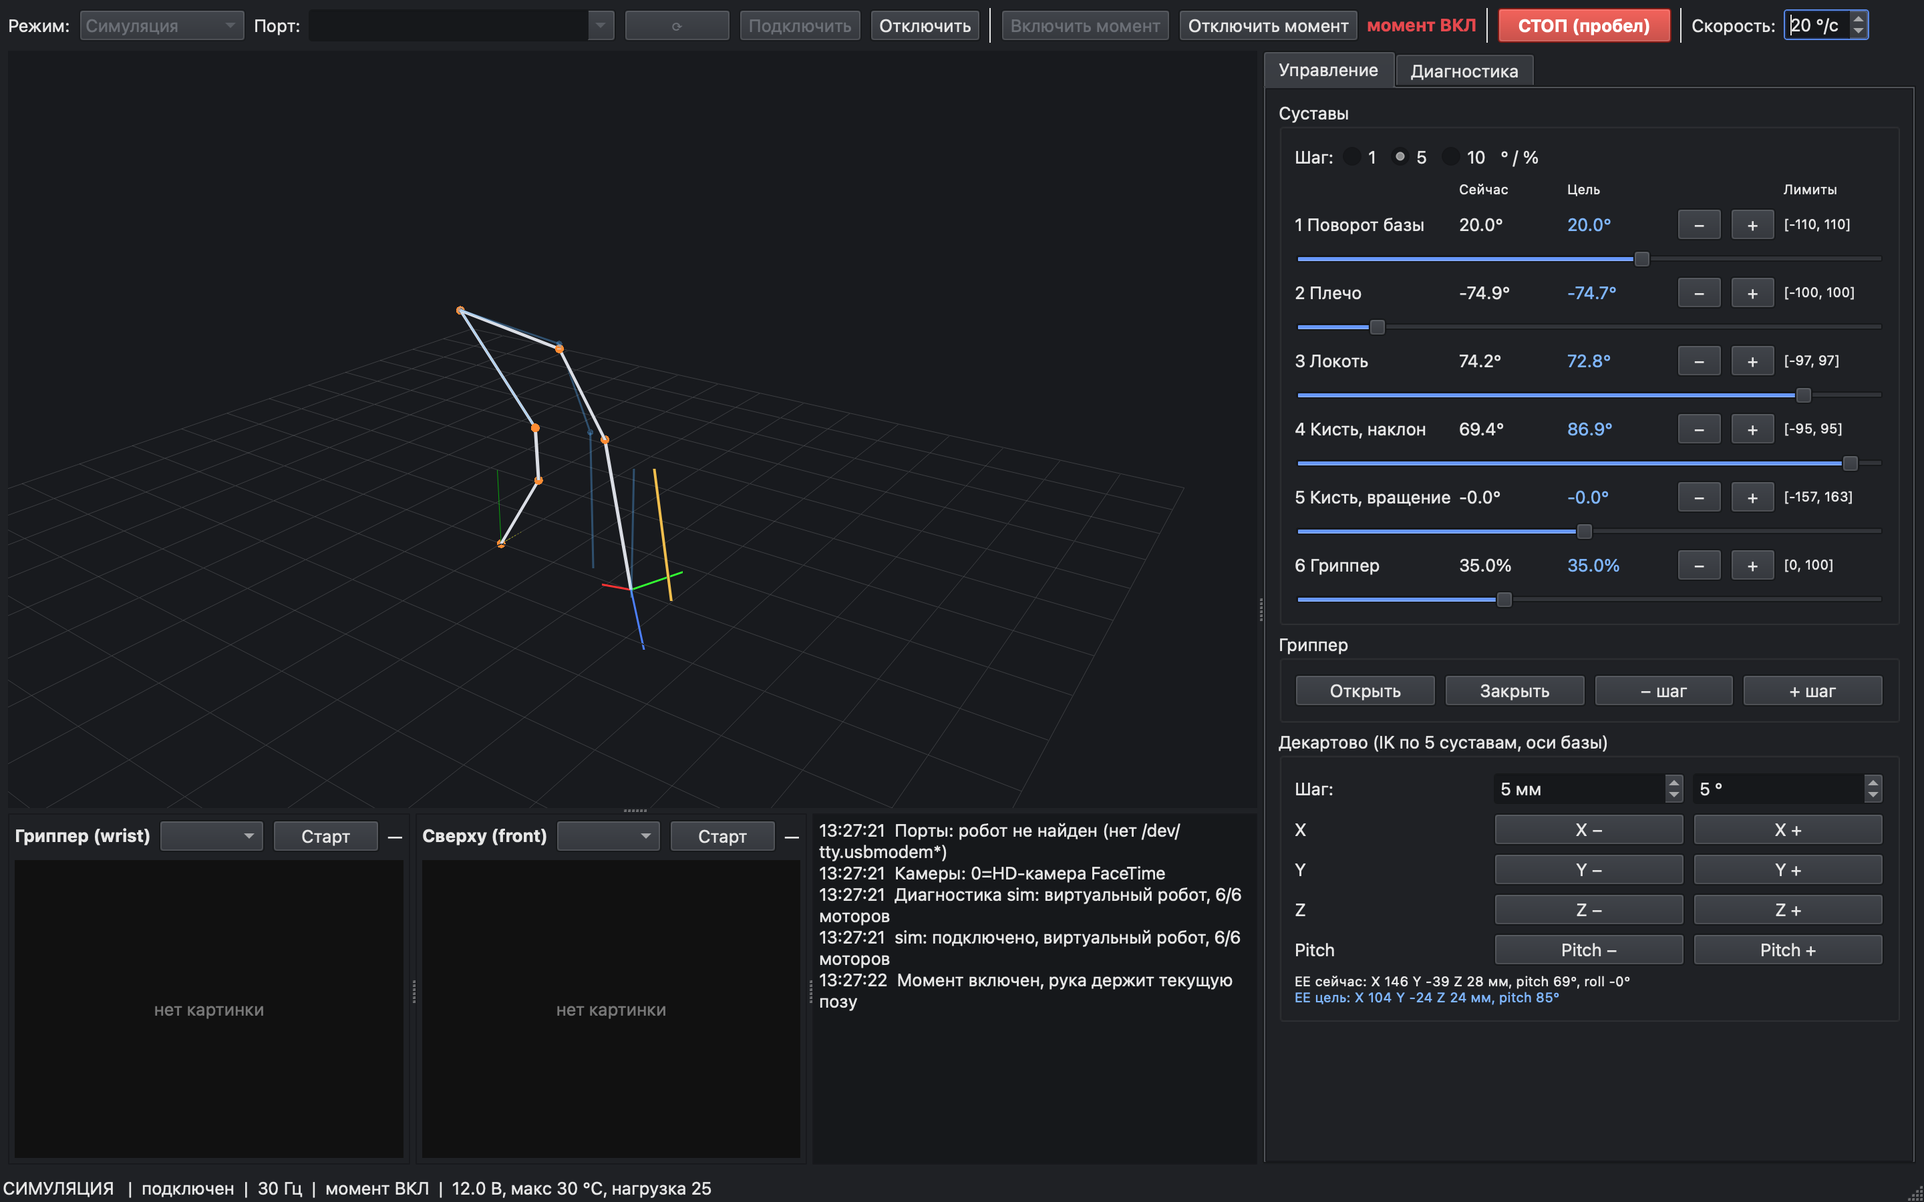
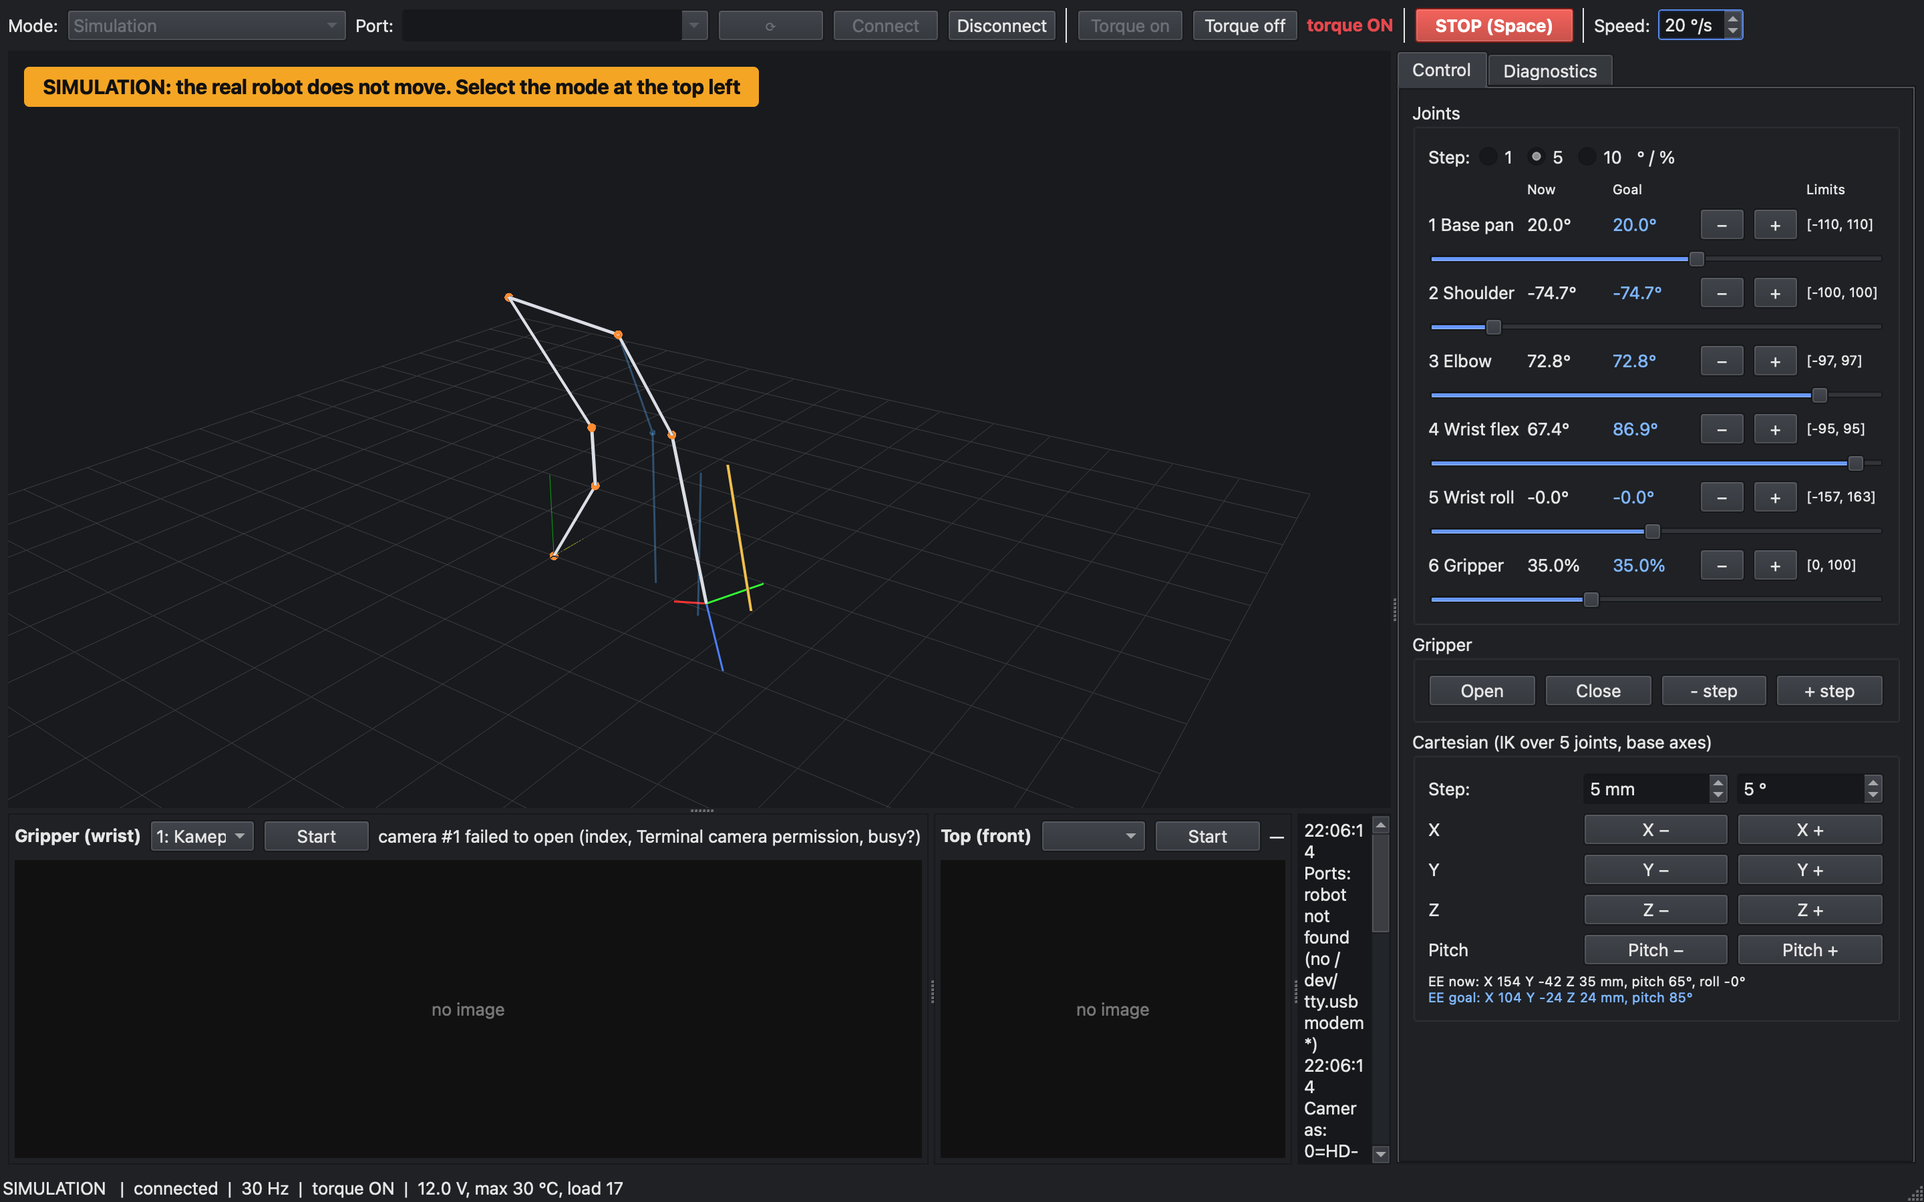
Add README, MIT license, NOTICE, CI workflow and English roadmap

diff --git a/README.md b/README.md
@@ -1,0 +1,160 @@
+# so101-control
+
+[![CI](https://github.com/Danykrane/so101-control/actions/workflows/ci.yml/badge.svg)](https://github.com/Danykrane/so101-control/actions/workflows/ci.yml)
+[![License: MIT](https://img.shields.io/badge/License-MIT-yellow.svg)](LICENSE)
+
+A safety-first control stack for the **SO-101** 6-DoF robot arm (Feetech STS3215 servos):
+a read-only-on-connect servo driver, URDF forward/inverse kinematics, a safety filter, a robot daemon
+with an HTTP API, an **MCP server that lets an LLM agent drive the real arm**, and a PyQt6 GUI with a 3D digital twin.
+
+It runs fully in simulation without hardware, and it has been used on a physical SO-101 follower arm.
+
+![GUI in simulation mode](docs/screenshot_sim.png)
+
+## Why
+
+Off-the-shelf scripts for hobby arms tend to write to the motors on startup, re-run calibration, or jump to
+a target as soon as torque is enabled. This project treats the arm as real hardware next to a person:
+connecting only reads, nothing moves until an explicit command, and every command from every client
+(GUI, CLI, LLM agent) passes through the same safety filter.
+
+## Architecture
+
+```mermaid
+flowchart LR
+    bus["Feetech servo bus<br/>6x STS3215, USB serial"] --> driver["driver.py<br/>30 Hz control loop,<br/>Sim / Feetech drivers"]
+    driver <--> safety["safety.py<br/>limits, step and speed limits,<br/>sag compensation"]
+    driver <--> kin["kinematics.py<br/>URDF FK / damped-LS IK"]
+    driver --> robotd["robotd.py<br/>HTTP API 127.0.0.1:8765<br/>+ cameras"]
+    kin --> robotd
+    robotd --> mcp["robot_mcp.py<br/>MCP server, 11 tools"]
+    mcp --> agent["LLM agent<br/>(e.g. Claude Code)"]
+    robotd --> cli["robotctl.py<br/>CLI"]
+    robotd --> gui["app.py (remote mode)<br/>PyQt6 GUI + 3D twin"]
+```
+
+One process (`robotd`) owns the serial port and the cameras. The GUI, the CLI and the agent are clients,
+so a human can watch the 3D twin and hit STOP while the agent is moving the arm.
+
+| Module | Responsibility |
+|---|---|
+| `driver.py` | `RobotState`, `SimDriver` (first-order servo model), `FeetechDriver` (LeRobot `SerialMotorsBus`); 30 Hz loop in a worker thread, command queue, watchdog, telemetry |
+| `safety.py` | Pure numpy safety filter: limit clipping, per-tick step limit, synchronous speed governor, lead limit, anti-sag I-loop |
+| `kinematics.py` | URDF parser, FK, 5-DoF IK (damped least squares with adaptive Levenberg-Marquardt damping), Cartesian path planner, motor-to-URDF joint map |
+| `robotd.py` | Robot daemon: HTTP JSON API, motion commands with "arrived / stalled / preempted" results, rest pose, camera snapshots |
+| `robot_mcp.py` | MCP server (FastMCP) exposing robotd to an LLM agent |
+| `robotctl.py` | Command-line client |
+| `remote.py` | `RemoteDriver`: the GUI as a robotd client with the same API as a local driver |
+| `app.py` | PyQt6 GUI: 3D skeleton with goal "ghost", joint and Cartesian jog, gripper, two cameras, motor diagnostics, log |
+| `cameras.py` | macOS camera enumeration and threaded OpenCV capture |
+| `ping_robot.py` | Read-only hardware check: ping 6 motors, read calibration and telemetry |
+
+Only `app.py` imports Qt; everything else is UI-agnostic and is meant to be ported to C++.
+
+## Features
+
+**Safety**
+- Connecting is read-only: ping, calibration from EEPROM, positions, torque, voltage, temperature.
+  LeRobot `calibrate()`, `configure()` and `write_calibration()` are never called, so PID gains, limits and
+  calibration in EEPROM stay untouched.
+- Torque is enabled only by an explicit command: `Goal_Position = Present_Position` (acknowledged by each motor),
+  then `Torque_Enable`. The arm freezes in place instead of jumping.
+- Goals are clipped to the intersection of URDF and calibration limits. A joint already outside its limit may only
+  move back inside, never snap to the boundary.
+- Synchronous speed governor: arm joints arrive together on a straight joint-space path, at most 2 deg per tick;
+  the commanded goal never leads the measured position by more than 10 deg.
+- Torque is re-read at about 3 Hz: if a servo drops torque (overheat, overload) control stops.
+  About 1 s without a link: the driver disconnects without touching torque.
+- Cartesian goals below a configurable table height are rejected; IK steps that need a joint jump over 15 deg
+  (near the straight-elbow singularity) are refused with a reason.
+
+**Kinematics and control**
+- FK/IK straight from the URDF, 5-DoF task space (x, y, z, pitch, roll); Cartesian moves are split into sub-steps
+  and IK is chained from the current pose to stay on the same solution branch.
+- Outer integral loop against gravity sag: the servo P controller falls 1-2 deg short under the arm weight
+  (up to 10 mm at the tool); a bounded offset (at most 3 deg) is added only for settled joints inside an error window.
+
+**Agent and tooling**
+- `robotd` reports why a motion ended: arrived, stalled against an obstacle, timed out, or preempted by another client
+  (for example a human pressing STOP in the GUI).
+- MCP tools: `robot_state`, `robot_torque`, `robot_move_joints`, `robot_move_cartesian`, `robot_move_to_pose`,
+  `robot_gripper`, `robot_go_rest`, `robot_stop`, `robot_camera`, `robot_set_speed`, `robot_log`.
+  The wrist camera snapshot is returned as an image, so the agent can look before the next step.
+- Joint signs and zeros were verified on hardware: shoulder, elbow and wrist against the resting pose,
+  base pan and wrist roll by the shift and rotation of the wrist-camera image.
+
+## Quick start (simulation, no hardware)
+
+```bash
+python -m venv .venv
+.venv/bin/pip install -r requirements.txt
+.venv/bin/python app.py --sim
+```
+
+Robot daemon in simulation, driven from the CLI:
+
+```bash
+.venv/bin/python robotd.py --sim --cameras ""
+.venv/bin/python robotctl.py torque on
+.venv/bin/python robotctl.py cart --dz 20
+.venv/bin/python robotctl.py state
+```
+
+## Real hardware
+
+Tested on macOS with an SO-101 follower arm, Python 3.12 and LeRobot 0.6.2 (its `SerialMotorsBus` on top of `rustypot`).
+
+1. Install LeRobot with serial motor support into the same environment
+   (see the [LeRobot installation guide](https://github.com/huggingface/lerobot)),
+   for example `pip install "lerobot[serial-motors]"`.
+2. Check the arm without moving it: `python ping_robot.py`.
+3. Start the daemon from Terminal (macOS grants camera access to the parent app): `./robotd.command`.
+4. Connect the GUI to it: `./run.command --robotd`, or use `robotctl.py`.
+
+Calibration is read from the servo EEPROM; the arm is expected to be calibrated once with LeRobot.
+Joint sign and zero offsets live in `config/joint_map.json`.
+
+### Connecting an LLM agent (MCP)
+
+Copy `.mcp.json.example` to `.mcp.json` in your agent's project, fix the path to `robot_mcp.py`
+and start `robotd` first. The MCP server only forwards requests to `robotd` and needs `uv` (or `pip install "mcp>=1.10,<2"`).
+
+## Tests
+
+```bash
+.venv/bin/python -m pytest
+```
+
+24 tests run without hardware and without LeRobot: FK/IK round trips, limit and singularity handling,
+the speed governor, sag compensation, the simulated driver, `robotd` command semantics, and a fake Feetech bus that
+asserts **connecting writes nothing** and **enabling torque writes the goal first**.
+CI runs `ruff` and `pytest` on every push.
+
+## Limitations
+
+- Python prototype: the 30 Hz loop runs in a Python thread, not a real-time controller.
+- The simulator has no gravity and no collisions; there is no self-collision check yet.
+- Camera enumeration and the `.command` launchers are macOS-specific; serial port auto-detection looks for
+  `/dev/tty.usbmodem*`-style names.
+- The HTTP API listens on localhost only and has no authentication.
+- Sag compensation is covered by tests in simulation but not yet validated on hardware.
+
+## Roadmap
+
+- **ROS 2**: a `ros2_control` hardware interface in C++ for the Feetech bus, with the same read-only connect and
+  torque-enable rules, plus MoveIt 2 integration.
+- **C++ / Qt 6 port**: kinematics and the safety filter in C++, a Qt 6 desktop app with a Qt Quick 3D digital twin and
+  a task pipeline editor.
+- MuJoCo digital twin with mirror (real to sim) and preview (sim to real after confirmation) modes.
+- Self-collision checks with sphere models; ZeroMQ or gRPC transport instead of HTTP polling.
+- LeRobot dataset recording from teleoperation and learned policies (ACT, SmolVLA) behind the same safety filter.
+
+See [docs/ROADMAP.md](docs/ROADMAP.md) for stages and acceptance criteria.
+
+## Credits and licenses
+
+- This project: [MIT](LICENSE).
+- [LeRobot](https://github.com/huggingface/lerobot) (Apache-2.0) by Hugging Face: used as a dependency for the
+  Feetech servo bus (`lerobot.motors.SerialMotorsBus`). LeRobot code is not included in this repository.
+- `urdf/so101_new_calib.urdf` comes from [TheRobotStudio/SO-ARM100](https://github.com/TheRobotStudio/SO-ARM100)
+  (Apache-2.0), unmodified. See [NOTICE](NOTICE).

diff --git a/docs/ROADMAP.md b/docs/ROADMAP.md
@@ -1,69 +1,48 @@
-# SO-101 Studio: план разработки
+# Roadmap
 
-Цель: десктоп-приложение на C++/Qt в стиле Traxium для управления SO-101 и запуска обученных
-действий. Основная задача: взять синий куб со стола и положить в руку.
+Goal: a desktop application (C++ / Qt 6) to operate the SO-101 and run learned skills safely.
+Reference task: pick a blue cube from the table and hand it to a person.
 
-## Целевой поток экранов
+## Target architecture
 
-1. Стартовый экран.
-2. Выбор робота и модели (SO-101 follower, позже SO-100 и другие).
-3. Загрузчик: поиск порта, ping 6 моторов, чтение калибровки из EEPROM, напряжение и
-   температура, камеры, ping GPU-сервера.
-4. Рабочее окно: в центре 3D-двойник (шарниры точками, звенья линиями, сетка), снизу две
-   камеры и лог, справа конструктор пайплайна.
-5. Действие: имя → чат с инструкцией → выбор модели, политики и данных → «Выполнить».
-   3D-вид и симуляция синхронно отражают робота во время выполнения.
-
-## Архитектура
-
-| Компонент | Сейчас | Потом |
+| Component | Now | Next |
 |---|---|---|
-| UI | PyQt6-прототип | C++/Qt 6.11 (скелет Traxium: CMake-пресеты, плагины, темы) |
-| Robot runtime | модуль в процессе UI | отдельный процесс `robotd` (Python, LeRobot) |
-| Кинематика | numpy FK/IK по URDF | та же логика в C++ (или KDL/Pinocchio) |
-| Симуляция | нет | MuJoCo: режимы mirror и preview |
-| Политики | нет | GPU-сервер: ACT, SmolVLA, Diffusion, TiPToP + cuTAMP |
+| UI | PyQt6 prototype | C++ / Qt 6 app: Qt Quick 3D digital twin, task pipeline editor, chat-driven actions |
+| Robot runtime | `robotd` (Python, HTTP) | `robotd` with ZeroMQ or gRPC; ROS 2 `ros2_control` hardware interface in C++ |
+| Kinematics | numpy FK/IK from URDF | same algorithms in C++ (or KDL / Pinocchio), MoveIt 2 for planning |
+| Simulation | first-order servo model | MuJoCo twin: mirror (real to sim) and preview (sim to real after confirmation) |
+| Policies | none | GPU policy server: ACT, SmolVLA, Diffusion Policy via LeRobot async inference |
 
-Каналы между процессами (этап 5):
+Inter-process channels:
 
-| Канал | Частота | Содержимое |
+| Channel | Rate | Content |
 |---|---|---|
-| `state` (PUB/SUB) | 30–50 Гц | `t, q[6], q_goal[6], load[6], temp[6], torque_on` |
-| `command` (REQ/REP) | по событию | jog, goto, gripper, hold, torque on/off; всегда через safety-фильтр |
-| `video` | 30 Гц | кадры двух камер (shared memory или JPEG) |
-| `policy` (gRPC) | 10–30 Гц | observation → action chunk (LeRobot async inference) |
+| `state` (PUB/SUB) | 30-50 Hz | `t, q[6], q_goal[6], load[6], temp[6], torque_on` |
+| `command` (REQ/REP) | on event | jog, goto, gripper, hold, torque on/off; always through the safety filter |
+| `video` | 30 Hz | frames from two cameras (shared memory or JPEG) |
+| `policy` (gRPC) | 10-30 Hz | observation to action chunk |
 
-Safety-фильтр стоит перед драйвером для любого источника команд: лимиты URDF и калибровки,
-ограничение шага за тик, ограничение скорости, проверка самопересечений по сферам из
-`so101-tiptop/model/robot.json`, watchdog на потерю связи.
+The safety filter sits in front of the driver for every command source: URDF and calibration limits, per-tick step
+limit, speed limit, self-collision check with sphere models, watchdog on link loss.
 
-## Этапы
+## Stages
 
-| # | Этап | Результат | Готово, когда |
-|---|---|---|---|
-| 0 | PyQt-прототип ручного управления | кнопки суставов, декартов jog через IK, гриппер, 2 камеры, 3D-скелет, диагностика, sim-режим | работает без робота; с роботом: ping 6 моторов и плавное движение по кнопке |
-| 1 | Привязка модели к железу | знак и ноль каждого сустава (`follower.ini`), калибровка камер, положение front-камеры относительно базы | 3D-скелет совпадает с роботом на 5 позах в пределах 3° |
-| 2 | Цифровой двойник MuJoCo | MJCF SO-101, стол, синий куб; mirror (real → sim) и preview (sim → real после подтверждения) | задержка отражения меньше 50 мс |
-| 3 | Данные | запись эпизодов LeRobotDataset (2 камеры, состояние, действие) с телеуправления | 50+ эпизодов «синий куб в руку», replay воспроизводит их |
-| 4 | Политики | обучение ACT и SmolVLA на сервере, policy server, проверка предиката V по камере | измеренная успешность на 20 попытках |
-| 5 | Runtime как сервис | `robotd` с протоколом ZeroMQ или gRPC; PyQt UI становится клиентом | UI перезапускается без переподключения робота |
-| 6 | C++/Qt приложение | экраны из потока выше, 3D на Qt Quick 3D или QOpenGLWidget, конструктор пайплайна, чат | полный сценарий без терминала |
+| # | Stage | Done when |
+|---|---|---|
+| 0 | Manual control prototype: joint and Cartesian jog, gripper, 2 cameras, 3D skeleton, diagnostics, sim mode | works without the robot; with the robot: 6/6 motors answer, smooth motion on command (**done**) |
+| 1 | Model-to-hardware binding: joint signs and zeros, camera calibration, front camera pose | 3D skeleton matches the robot within 3 deg on 5 poses (signs and zeros **done**) |
+| 2 | MuJoCo digital twin: MJCF, table, cube; mirror and preview modes | mirror latency under 50 ms |
+| 3 | Data: LeRobotDataset episodes (2 cameras, state, action) from teleoperation | 50+ episodes, replay reproduces them |
+| 4 | Policies: train ACT and SmolVLA, policy server, success check from the camera | measured success rate on 20 trials |
+| 5 | Runtime as a service: `robotd` over ZeroMQ or gRPC, ROS 2 `ros2_control` interface | UI restarts without reconnecting the robot |
+| 6 | C++ / Qt 6 application with the full flow | the whole scenario runs without a terminal |
 
-## Модель данных пайплайна
+## Pipeline data model
 
-`Pipeline` = упорядоченный список `Action`.
+`Pipeline` = ordered list of `Action`.
 
-`Action`: `name`, `instruction` (текст из чата), `executor` (`policy` | `planner` | `script`),
-`checkpoint`, `dataset`, `params`, `success_predicate`, `timeout_s`, `on_fail` (`retry` | `stop`).
+`Action`: `name`, `instruction` (text), `executor` (`policy` | `planner` | `script`), `checkpoint`, `dataset`,
+`params`, `success_predicate`, `timeout_s`, `on_fail` (`retry` | `stop`).
 
-Выполнение: `Action` → executor → поток action chunks → safety-фильтр → робот; состояние →
-3D-вид и MuJoCo; предикат V → следующее действие, повтор или стоп.
-
-## Что нужно от пользователя
-
-- Блок питания робота и USB; это follower; есть ли leader-рука для телеуправления.
-- Калибровался ли робот через LeRobot. Если да, калибровка лежит в EEPROM моторов; json с той
-  машины тоже пригодится.
-- Доступ к GPU-серверу (SSH), какой GPU.
-- «Положить в руку» = в ладонь человека? Тогда нужна детекция руки (например, MediaPipe Hands).
-- Зафиксированное положение камер и стола.
+Execution: `Action` -> executor -> stream of action chunks -> safety filter -> robot; state -> 3D view and MuJoCo;
+success predicate -> next action, retry or stop.
